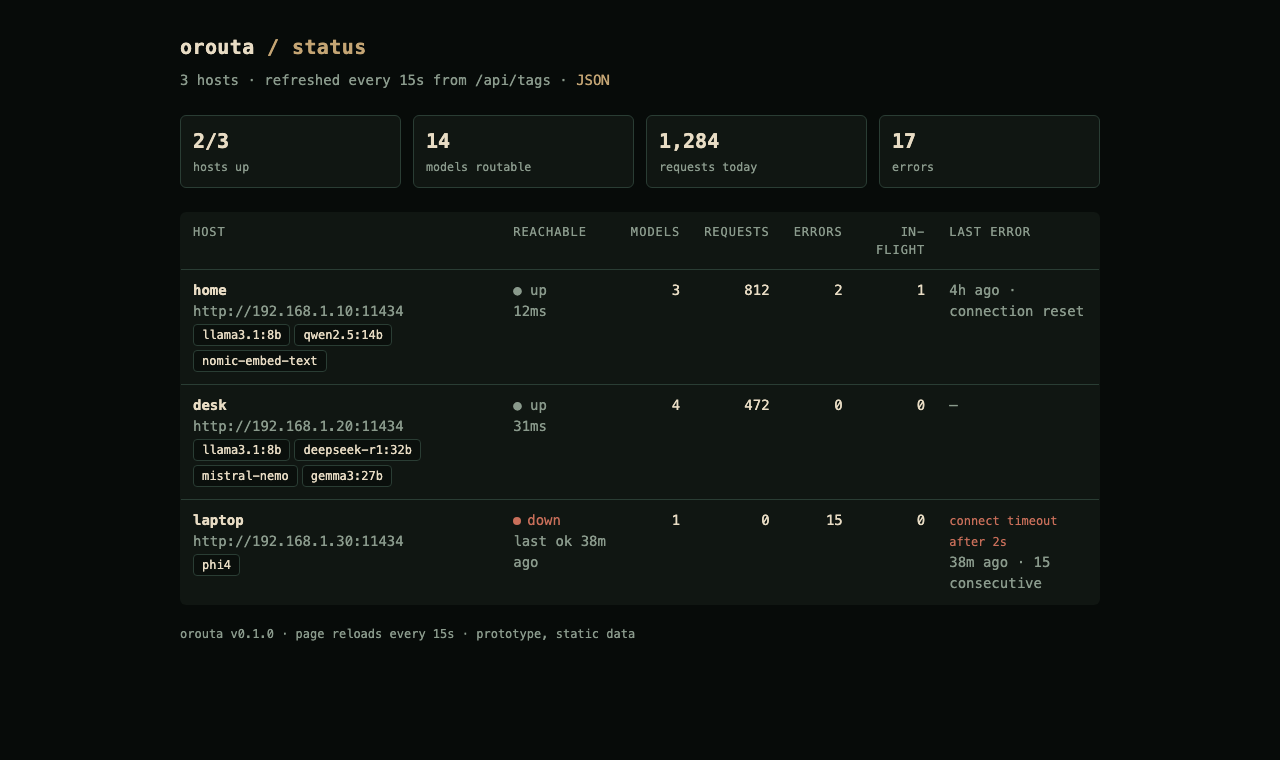
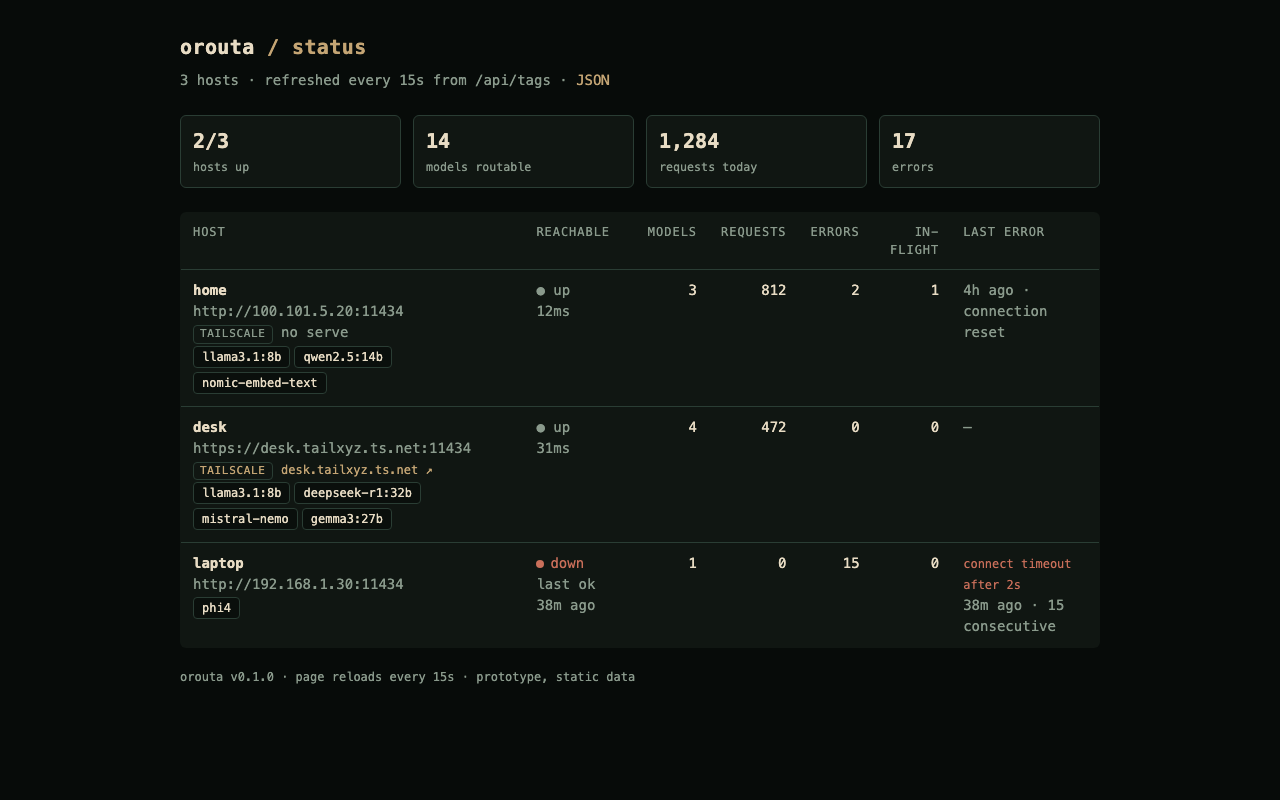
tailscale presence + https link per host

diff --git a/prototypes/status-light.html b/prototypes/status-light.html
@@ -6,15 +6,15 @@
 <title>orouta — status</title>
 <style>
   :root {
-    --bg: #070b09;
-    --panel: #101612;
-    --line: #2a3d34;
-    --chip: #0a0f0c;
-    --text: #e8dcc4;
-    --muted: #8a9a8c;
-    --accent: #c4a574;
-    --ok: #8a9a8c;
-    --bad: #c96f5a;
+    --bg: #f7f3e8;
+    --panel: #fffdf6;
+    --line: #ddd2b8;
+    --chip: #f1ead9;
+    --text: #2a3d34;
+    --muted: #6e7d70;
+    --accent: #9a7430;
+    --ok: #4d7d5c;
+    --bad: #b4462e;
   }
   @media (prefers-color-scheme: light) {
     :root {
